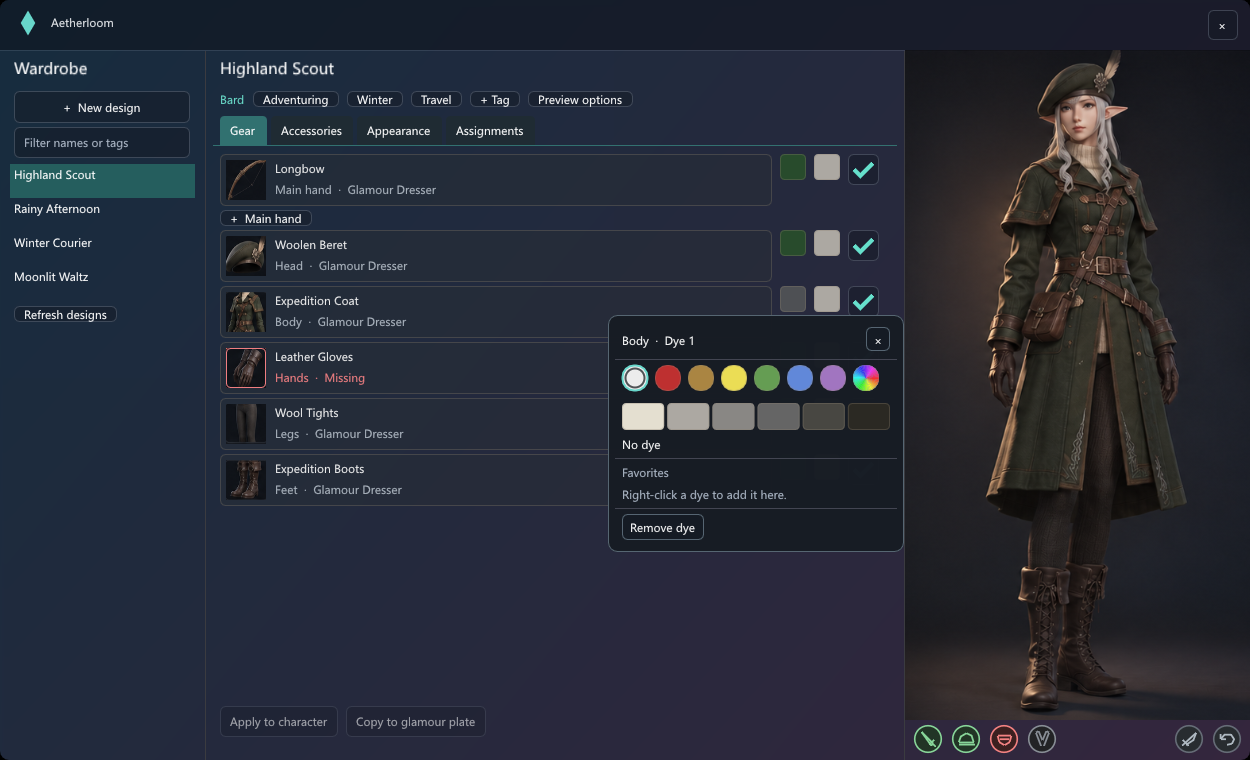
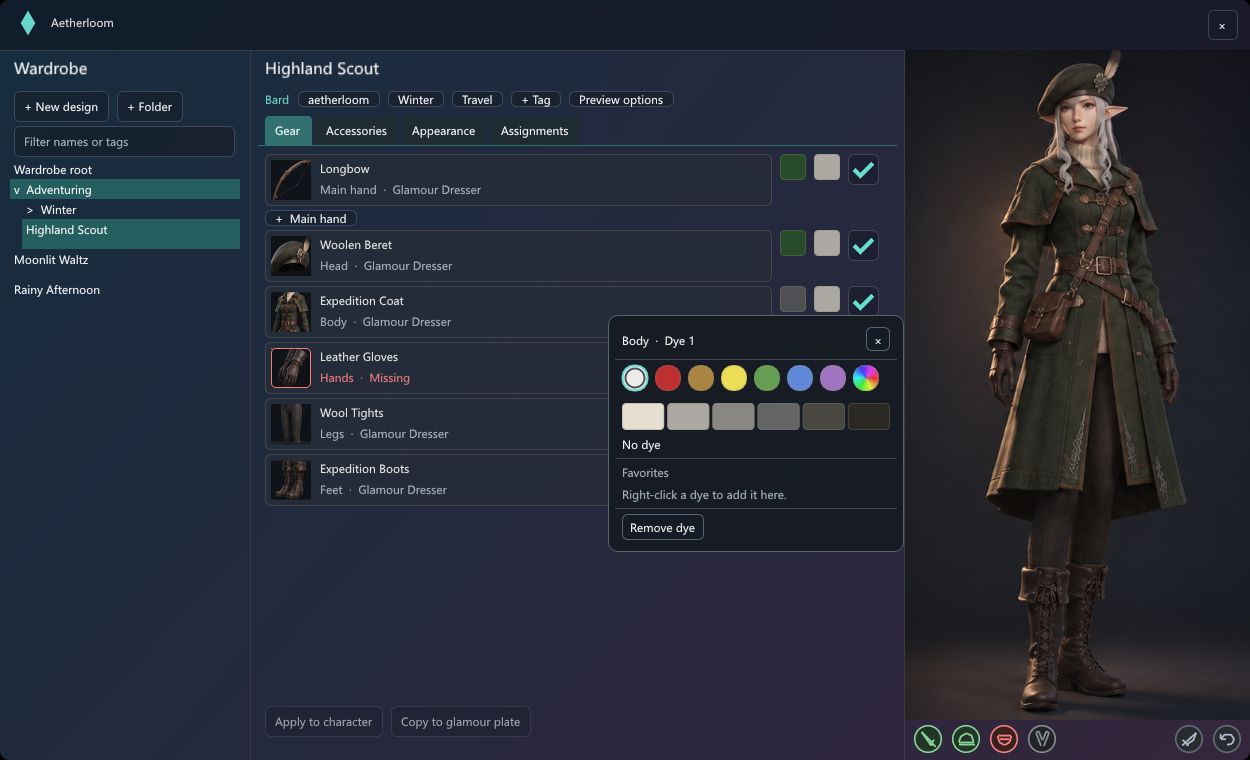
Render the wider wardrobe library and nested design folders

Changed region(s): [[0.0, 0.0605, 0.5304, 0.6658], [0.1872, 0.9382, 0.4056, 0.9684]]

diff --git a/WardrobePreview/WardrobeFixture.cs b/WardrobePreview/WardrobeFixture.cs
@@ -15,7 +15,10 @@ internal sealed class WardrobeFixture:IWardrobe
     public string Title=>designs.First(d=>d.Id==Selected).Name;
     public string[] Tags=>designs.First(d=>d.Id==Selected).Tags;
     public string Message=>"";
-    public IEnumerable<(Guid,string,string[])> Designs=>designs;
+    private readonly List<string> folders=["[AL] Adventuring","[AL] Adventuring/Winter"];
+    private readonly Dictionary<Guid,string> paths=[];
+    public IReadOnlyCollection<string> Folders=>folders;
+    public IEnumerable<LibraryDesign> Designs=>designs.Select(d=>new LibraryDesign(d.Id,d.Name,d.Tags,paths.GetValueOrDefault(d.Id)??""));
     public IEnumerable<WardrobeDye> Dyes=>palette;
     private readonly byte[] appearancePalette=new byte[4096];
     public WardrobeFixture(Func<string,ImTextureID> load)
@@ -40,8 +43,8 @@ internal sealed class WardrobeFixture:IWardrobe
             art[(uint)(80+i)]=StyleTile(1531+79*(i%4));
         }
         for(int i=0;i<3;i++)art[(uint)(120+i)]=Cut(items,587,528+i*83,60,60);
-        foreach(var name in new[]{"Highland Scout","Rainy Afternoon","Winter Courier","Moonlit Waltz"})designs.Add((Guid.NewGuid(),name,["Adventuring","Winter","Travel"]));
-        Selected=designs[0].Id;
+        foreach(var name in new[]{"Highland Scout","Rainy Afternoon","Winter Courier","Moonlit Waltz"})designs.Add((Guid.NewGuid(),name,["aetherloom","Winter","Travel"]));
+        Selected=designs[0].Id;paths[Selected]="[AL] Adventuring";paths[designs[2].Id]="[AL] Adventuring/Winter";
         using var samples=typeof(WardrobeFixture).Assembly.GetManifestResourceStream("appearance-palette.bin")!;
         samples.ReadExactly(appearancePalette);
         using var stream=typeof(WardrobeFixture).Assembly.GetManifestResourceStream("stains.tsv")!;
@@ -56,8 +59,9 @@ internal sealed class WardrobeFixture:IWardrobe
     public string Availability(uint id)=>id is 4 or 11 or 25?"Missing":"Glamour Dresser";
     public Picture? Icon(uint id)=>art.TryGetValue(id,out var img)?img:null;
     public void Select(Guid id)=>Selected=id;
-    public void Refresh(){}
-    public void Create(string name){Selected=Guid.NewGuid();designs.Add((Selected,name,[]));}
+    public bool Create(string name,string folder){Selected=Guid.NewGuid();designs.Add((Selected,name,["aetherloom"]));paths[Selected]=folder;return true;}
+    public bool CreateFolder(string parent,string name){folders.Add(parent.Length==0?"[AL] "+name:parent+"/"+name);return true;}
+    public void MoveDesign(Guid id,string folder)=>paths[id]=folder;
     public void Tag(string tag,bool add){var i=designs.FindIndex(x=>x.Id==Selected);designs[i]=(Selected,Title,add?[..Tags,tag]:Tags.Where(x=>x!=tag).ToArray());}
     public IEnumerable<WardrobeSlot> Slots(bool accessories)=>rows.Where(x=>accessories==(x.Key is "Ears" or "Neck" or "Wrists" or "RFinger" or "LFinger"));
     public IEnumerable<WardrobeItem> Catalog(string key){
